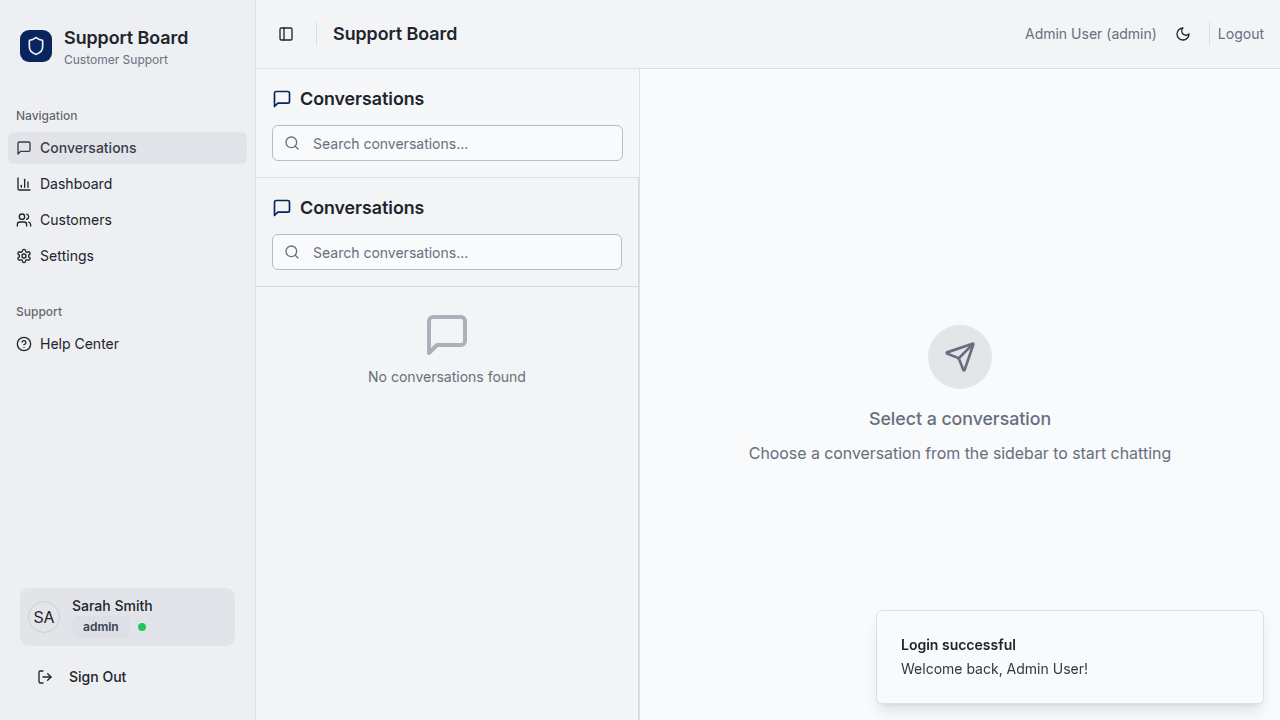
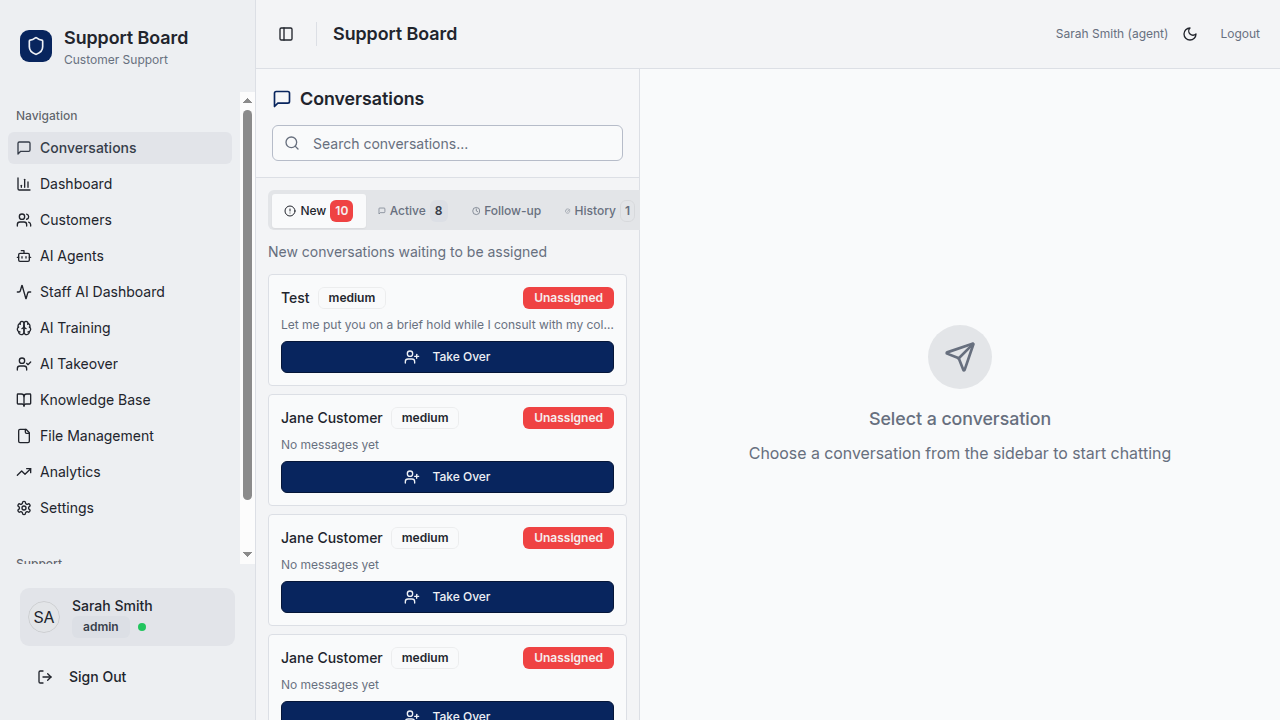
Improve conversation display and add follow-up dates
Update conversation fetching logic to disable caching, fix unassigned conversation retrieval, and add follow-up date functionality.

Replit-Commit-Author: Agent
Replit-Commit-Session-Id: 7df05079-43bb-4279-af2c-41e2c4906ff7
Replit-Commit-Checkpoint-Type: full_checkpoint
Replit-Commit-Screenshot-Url: https://storage.googleapis.com/screenshot-production-us-central1/fc4c149f-f4da-48fa-8af3-92b4ed8f6411/7df05079-43bb-4279-af2c-41e2c4906ff7/k6VLbzP

diff --git a/server/storage.ts b/server/storage.ts
@@ -52,7 +52,7 @@ import {
   type InsertAiAgentFileUsage,
 } from "@shared/schema";
 import { db } from "./db";
-import { eq, desc, and, or, sql } from "drizzle-orm";
+import { eq, desc, and, or, sql, isNull } from "drizzle-orm";
 
 // Updated interface for all CRUD operations
 export interface IStorage {
@@ -369,6 +369,7 @@ export class DatabaseStorage implements IStorage {
         title: conversations.title,
         status: conversations.status,
         priority: conversations.priority,
+        followupDate: conversations.followupDate,
         isAnonymous: conversations.isAnonymous,
         sessionId: conversations.sessionId,
         createdAt: conversations.createdAt,
@@ -416,6 +417,7 @@ export class DatabaseStorage implements IStorage {
         title: conversations.title,
         status: conversations.status,
         priority: conversations.priority,
+        followupDate: conversations.followupDate,
         isAnonymous: conversations.isAnonymous,
         sessionId: conversations.sessionId,
         createdAt: conversations.createdAt,
@@ -443,6 +445,7 @@ export class DatabaseStorage implements IStorage {
         title: conversations.title,
         status: conversations.status,
         priority: conversations.priority,
+        followupDate: conversations.followupDate,
         isAnonymous: conversations.isAnonymous,
         sessionId: conversations.sessionId,
         createdAt: conversations.createdAt,
@@ -1080,33 +1083,43 @@ export class DatabaseStorage implements IStorage {
   }
 
   async getUnassignedConversations(): Promise<Conversation[]> {
-    return await db
-      .select({
-        id: conversations.id,
-        customerId: conversations.customerId,
-        assignedAgentId: conversations.assignedAgentId,
-        title: conversations.title,
-        status: conversations.status,
-        priority: conversations.priority,
-        isAnonymous: conversations.isAnonymous,
-        sessionId: conversations.sessionId,
-        createdAt: conversations.createdAt,
-        updatedAt: conversations.updatedAt,
-        customer: {
-          id: customers.id,
-          name: customers.name,
-          email: customers.email,
-          company: customers.company,
-          status: customers.status,
-        }
-      })
-      .from(conversations)
-      .leftJoin(customers, eq(conversations.customerId, customers.id))
-      .where(and(
-        eq(conversations.assignedAgentId, null as any),
-        eq(conversations.status, 'open')
-      ))
-      .orderBy(desc(conversations.createdAt));
+    try {
+      console.log('Executing getUnassignedConversations query...');
+      const results = await db
+        .select({
+          id: conversations.id,
+          customerId: conversations.customerId,
+          assignedAgentId: conversations.assignedAgentId,
+          title: conversations.title,
+          status: conversations.status,
+          priority: conversations.priority,
+          followupDate: conversations.followupDate, // Add missing field
+          isAnonymous: conversations.isAnonymous,
+          sessionId: conversations.sessionId,
+          createdAt: conversations.createdAt,
+          updatedAt: conversations.updatedAt,
+          customer: {
+            id: customers.id,
+            name: customers.name,
+            email: customers.email,
+            company: customers.company,
+            status: customers.status,
+          }
+        })
+        .from(conversations)
+        .leftJoin(customers, eq(conversations.customerId, customers.id))
+        .where(and(
+          isNull(conversations.assignedAgentId),
+          eq(conversations.status, 'open')
+        ))
+        .orderBy(desc(conversations.createdAt));
+      
+      console.log(`getUnassignedConversations found ${results.length} results:`, results.map(r => r.id));
+      return results;
+    } catch (error) {
+      console.error('Error in getUnassignedConversations:', error);
+      return [];
+    }
   }
 
   // AI Agent operations

diff --git a/server/routes.ts b/server/routes.ts
@@ -525,6 +525,11 @@ export async function registerRoutes(app: Express, sessionStore?: any): Promise<
   // Conversation management routes
   app.get('/api/conversations', requireAuth, async (req, res) => {
     try {
+      // Disable all caching to debug issue
+      res.set('Cache-Control', 'no-store, no-cache, must-revalidate, proxy-revalidate');
+      res.set('Pragma', 'no-cache');
+      res.set('Expires', '0');
+      res.set('Surrogate-Control', 'no-store');
       const user = req.user as any;
       let conversations: any[];
       
@@ -536,6 +541,9 @@ export async function registerRoutes(app: Express, sessionStore?: any): Promise<
         // Agents can see conversations assigned to them AND unassigned conversations
         const assignedConversations = await storage.getConversationsByAgent(user.id);
         const unassignedConversations = await storage.getUnassignedConversations();
+        
+        console.log(`Agent ${user.name} - Assigned: ${assignedConversations.length}, Unassigned: ${unassignedConversations.length}`);
+        console.log(`Unassigned conversation IDs:`, unassignedConversations.map(c => c.id));
         
         // Combine and mark which are assigned vs unassigned
         conversations = [
@@ -614,6 +622,11 @@ export async function registerRoutes(app: Express, sessionStore?: any): Promise<
       console.log(`Enrichment completed, ${enrichedConversations.length} conversations enriched`);
       
       console.log(`Sending ${enrichedConversations.length} conversations to client`);
+      
+      // Disable ETags to prevent 304 caching issues
+      res.set('Cache-Control', 'no-store, no-cache, must-revalidate');
+      res.set('ETag', ''); // Clear ETag
+      
       res.json(enrichedConversations);
     } catch (error) {
       console.error('Failed to fetch conversations:', error);

diff --git a/client/src/pages/ConversationsPage.tsx b/client/src/pages/ConversationsPage.tsx
@@ -225,7 +225,7 @@ export default function ConversationsPage() {
   // Take over mutation for unassigned conversations
   const takeOverMutation = useMutation({
     mutationFn: async (conversationId: string) => {
-      return await apiRequest('PUT', `/api/conversations/${conversationId}/take-over`, {});
+      return await apiRequest(`/api/conversations/${conversationId}/take-over`, 'PUT', {});
     },
     onSuccess: () => {
       queryClient.invalidateQueries({ queryKey: ['/api/conversations'] });
